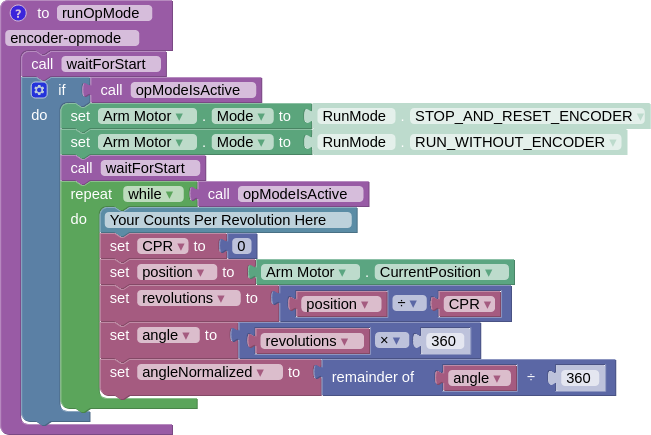
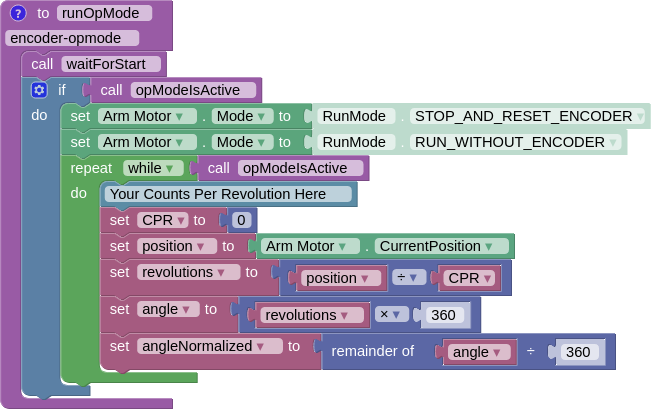
Add block code

diff --git a/source/docs/software/tutorials/encoders.rst b/source/docs/software/tutorials/encoders.rst
@@ -211,9 +211,9 @@ Putting it all together, we get the following testing program.
                  waitForStart();
 
                  while (opModeIsActive()) {
-                     // Get the current position of the motor
                      double CPR = [Your Counts Per Revolution Here];
 
+                     // Get the current position of the motor
                      int position = motor.getCurrentPosition();
                      double revolutions = position/CPR;
 
@@ -296,12 +296,12 @@ Putting this all together with our previous testing program, we get
                   waitForStart();
 
                   while (opModeIsActive()) {
-                        // Get the current position of the motor
                         double CPR = [Your Counts Per Revolution Here];
 
                         double diameter = 1.0; // Replace with your wheel/spool's diameter
                         double circumference = Math.PI * diameter;
 
+                        // Get the current position of the motor
                         int position = motor.getCurrentPosition();
                         double revolutions = position/CPR;
 
@@ -348,10 +348,7 @@ Earlier, we learned about the RUN_WITHOUT_ENCODER mode for the motor. We can use
    .. tab-item:: Blocks
       :sync: blocks
 
-         .. admonition:: TODO
-
-            Add block code here
-
+      .. image:: images/encoders/arm-opmode-1.png
          :width: 45em
 
 .. tip:: You can find out more about run modes at the `official REV Robotics Documentation page <https://docs.revrobotics.com/duo-control/programming/using-encoder-feedback>`_
@@ -375,10 +372,7 @@ However, before we tell the motor to go to a position, we have to tell the motor
    .. tab-item:: Blocks
       :sync: blocks
 
-         .. admonition:: TODO
-
-            Add block code here
-
+      .. image:: images/encoders/arm-opmode-2.png
          :width: 45em
 
 This code tells the motor to move to 1000 ticks, using a PID loop to control the motor's position. You can read more about PID loops `here. <https://gm0.org/en/latest/docs/software/concepts/control-loops.html#pid>`_
@@ -401,10 +395,7 @@ We can cap the speed that the motor runs at using the following code:
    .. tab-item:: Blocks
       :sync: blocks
 
-         .. admonition:: TODO
-
-            Add block code here
-
+      .. image:: images/encoders/arm-opmode-3.png
          :width: 45em
 
 Now, let's use this information to control an arm in an OpMode.
@@ -479,9 +470,7 @@ Now, let's use this information to control an arm in an OpMode.
    .. tab-item:: Blocks
       :sync: blocks
 
-         .. admonition:: TODO
+      :download:`Blocks file download <block-code/arm-opmode.blk>`
 
-            Add block code here
-
+      .. image:: images/encoders/arm-opmode-complete.png
          :width: 45em
-
